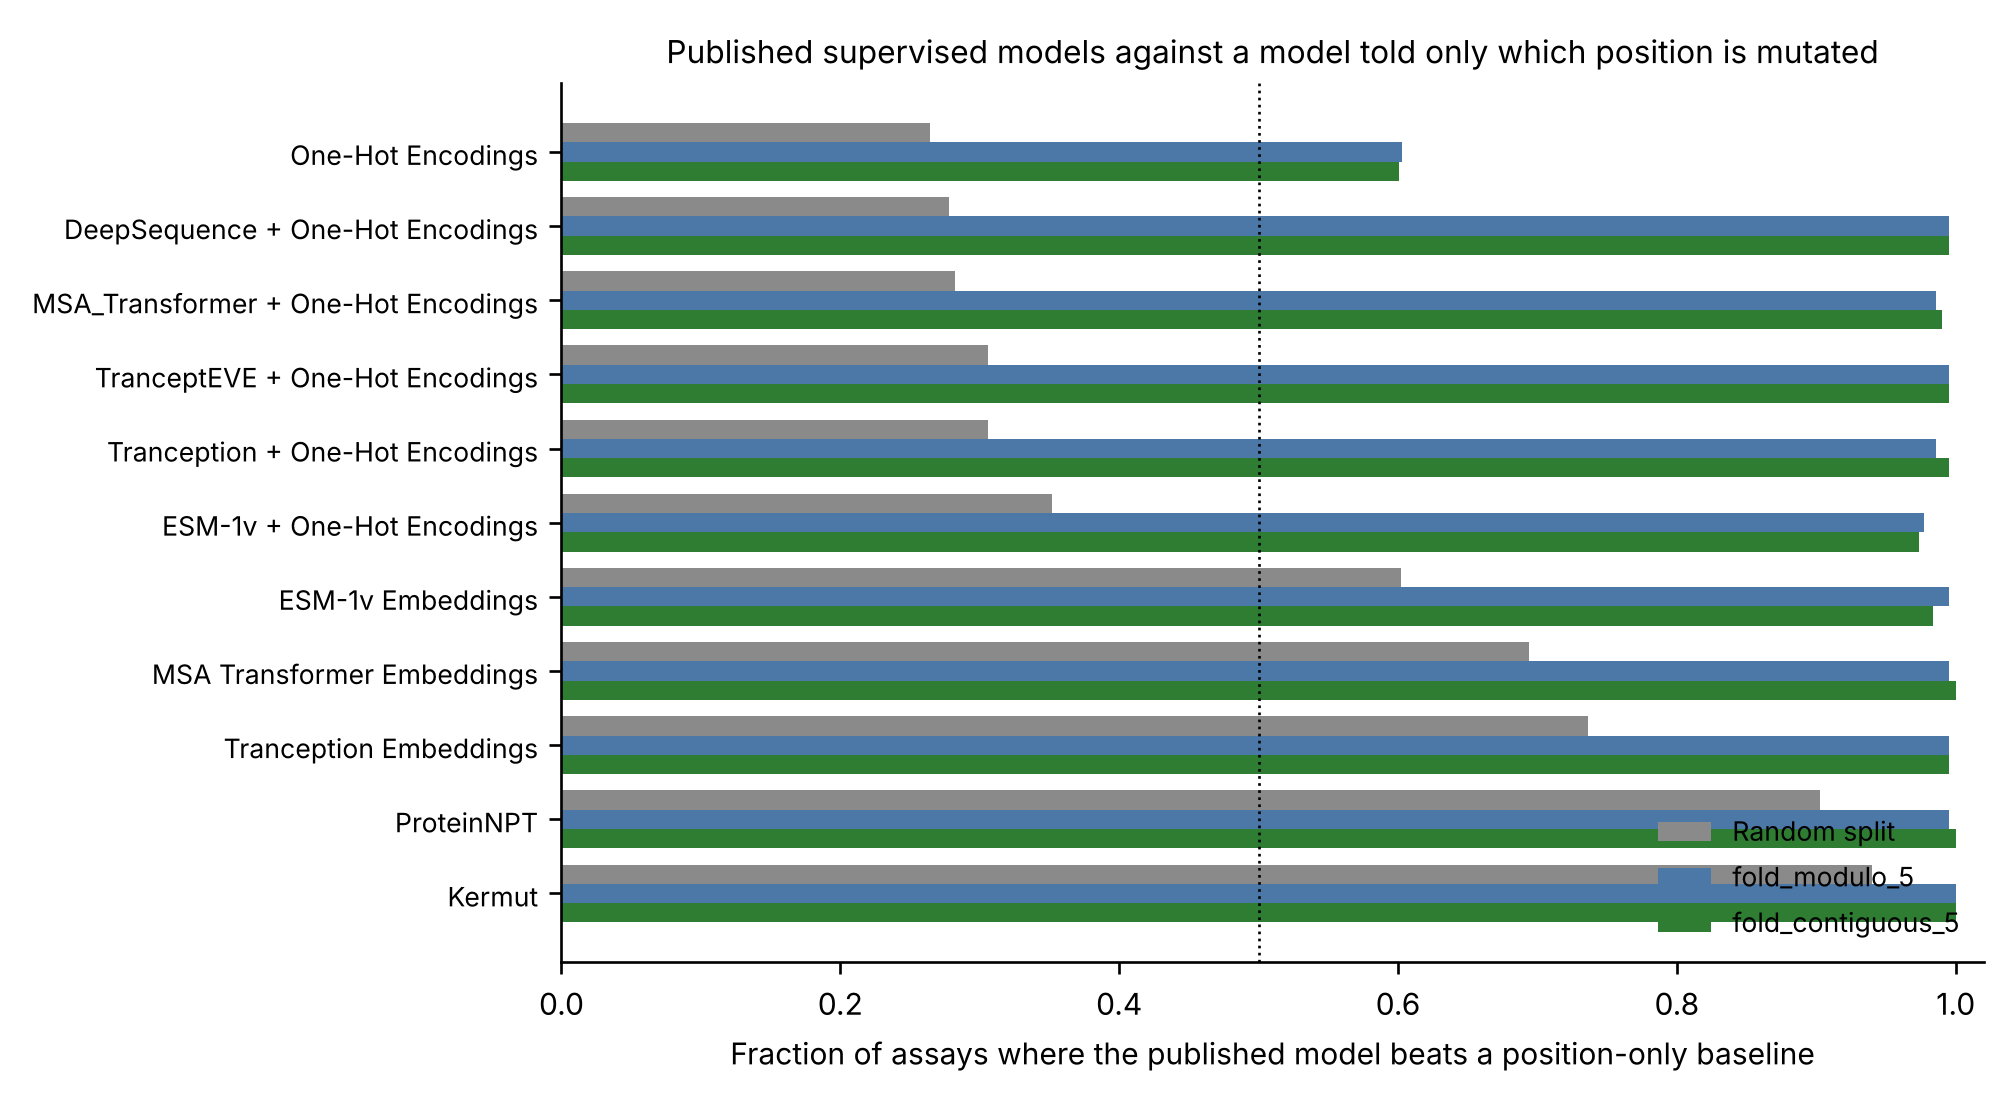
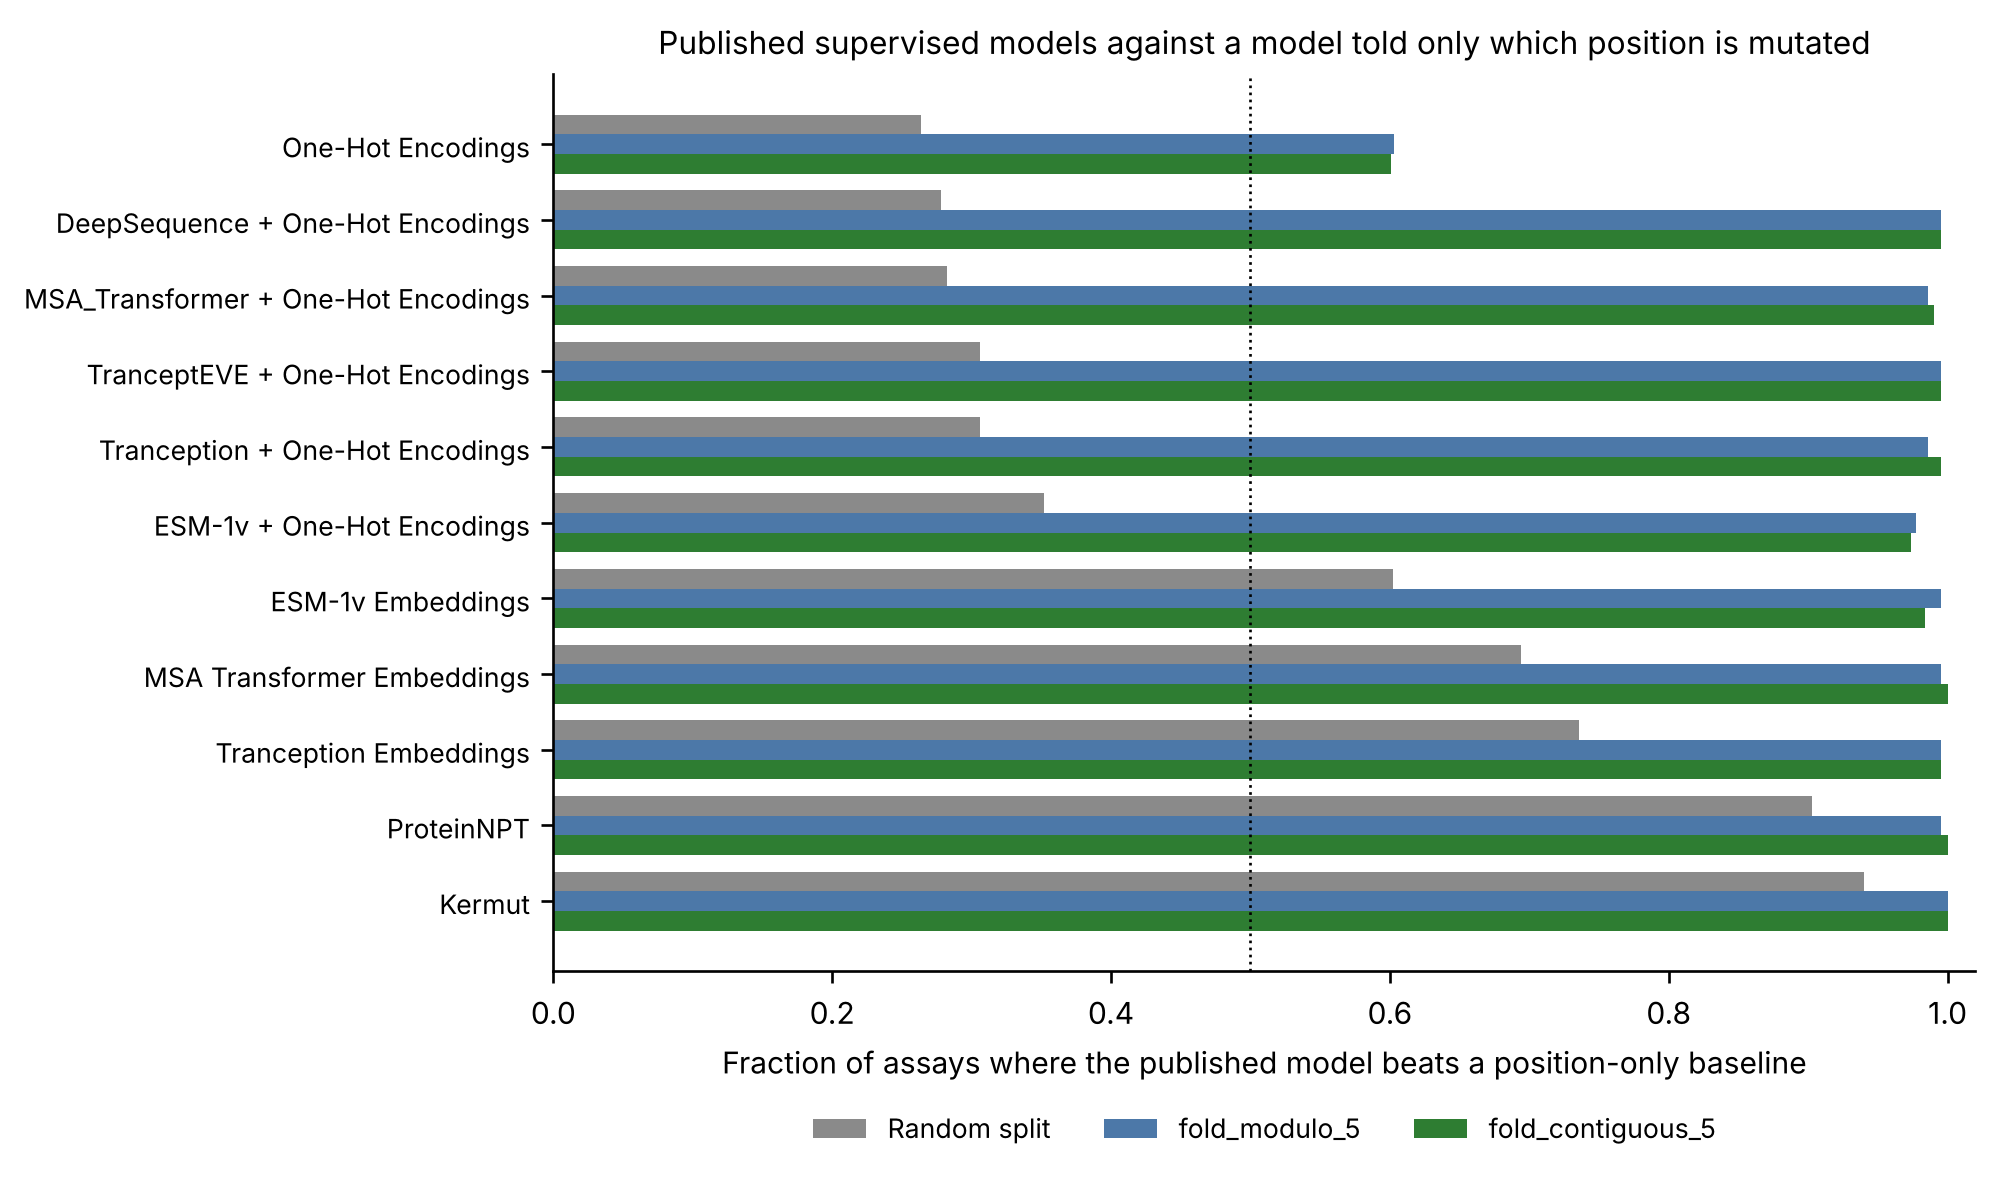
Move the audit figure legend out of the bars
Claude-Session: https://claude.ai/code/session_01WvoRybUDvc848EsKeN6znn

diff --git a/scripts/position_only_audit.py b/scripts/position_only_audit.py
@@ -88,7 +88,7 @@ def main():
                   values="frac_assays_model_beats_position_only")
     cols = [l for _, _, l in SCHEMES if l in piv.columns]
     piv = piv[cols].sort_values(cols[0])
-    fig, ax = plt.subplots(figsize=(8.4, 4.6))
+    fig, ax = plt.subplots(figsize=(8.4, 5.0))
     y = np.arange(len(piv))
     w = 0.26
     for i, c in enumerate(cols):
@@ -98,10 +98,12 @@ def main():
     ax.set_yticks(y); ax.set_yticklabels(piv.index, fontsize=8)
     ax.set_xlabel("Fraction of assays where the published model beats a position-only baseline")
     ax.set_xlim(0, 1.02); ax.invert_yaxis()
-    ax.legend(frameon=False, fontsize=8, loc="lower right")
+    ax.legend(frameon=False, fontsize=8, loc="upper center", ncol=3,
+              bbox_to_anchor=(0.5, -0.13))
     ax.set_title("Published supervised models against a model told only which position is mutated",
                  fontsize=9.5)
-    fig.tight_layout(); fig.savefig(FIG / "fig12_position_only_audit.png", dpi=240)
+    fig.tight_layout(); fig.savefig(FIG / "fig12_position_only_audit.png", dpi=240,
+                                    bbox_inches="tight")
     plt.close(fig)
 
     print(T.to_string(index=False))
